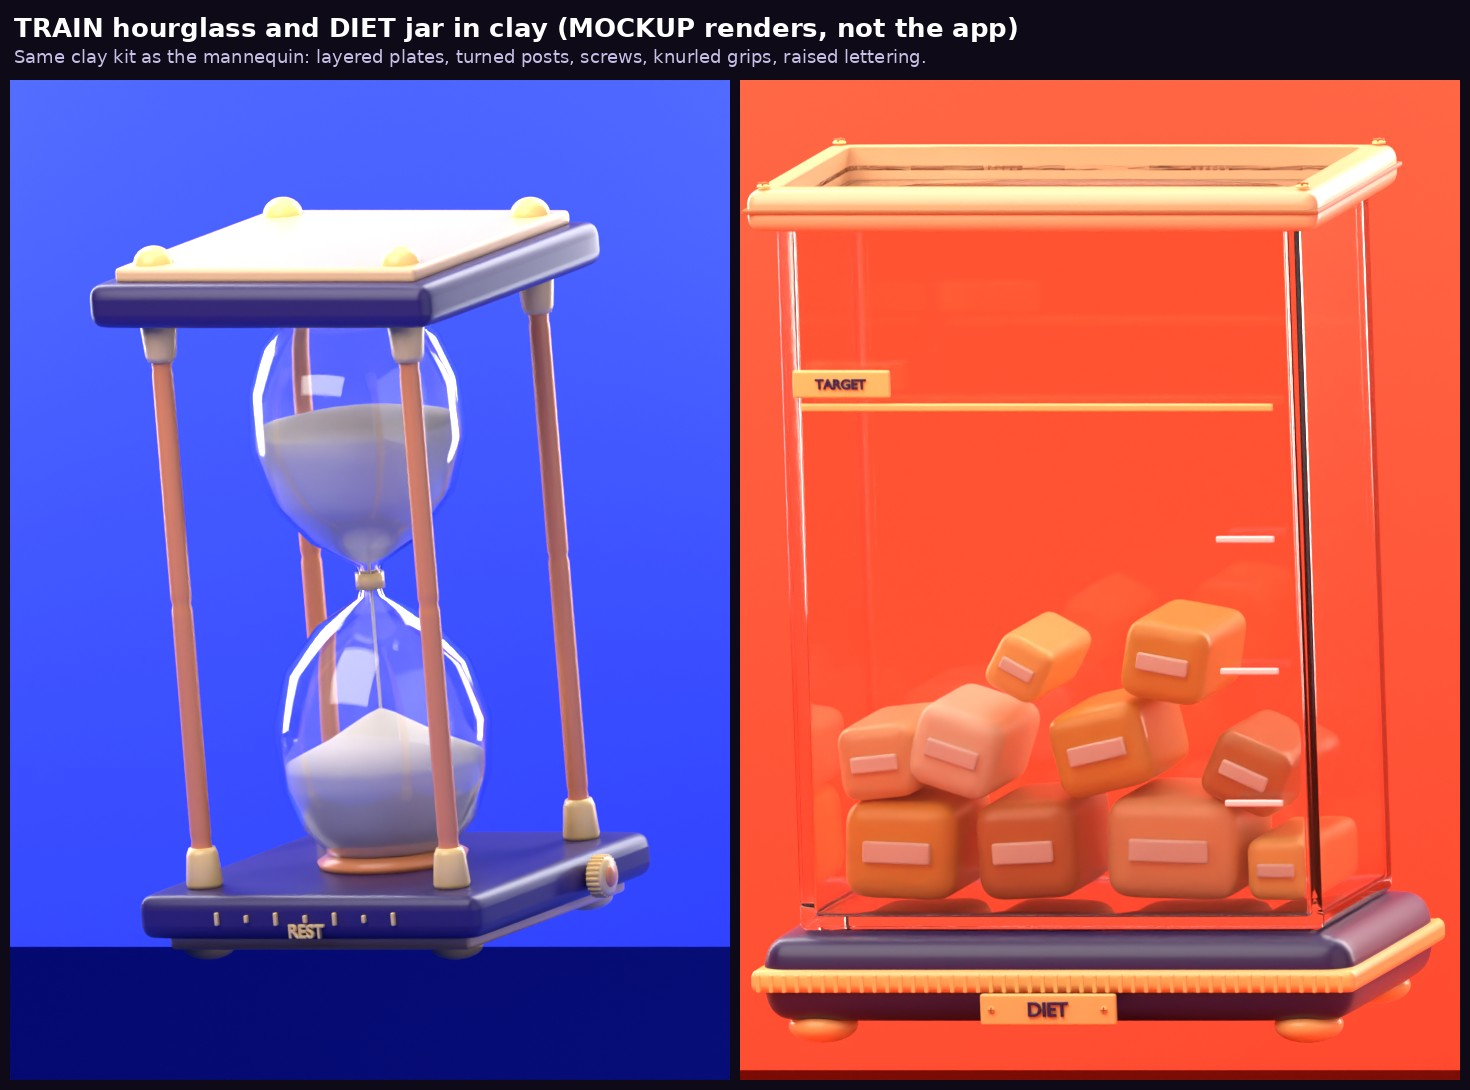
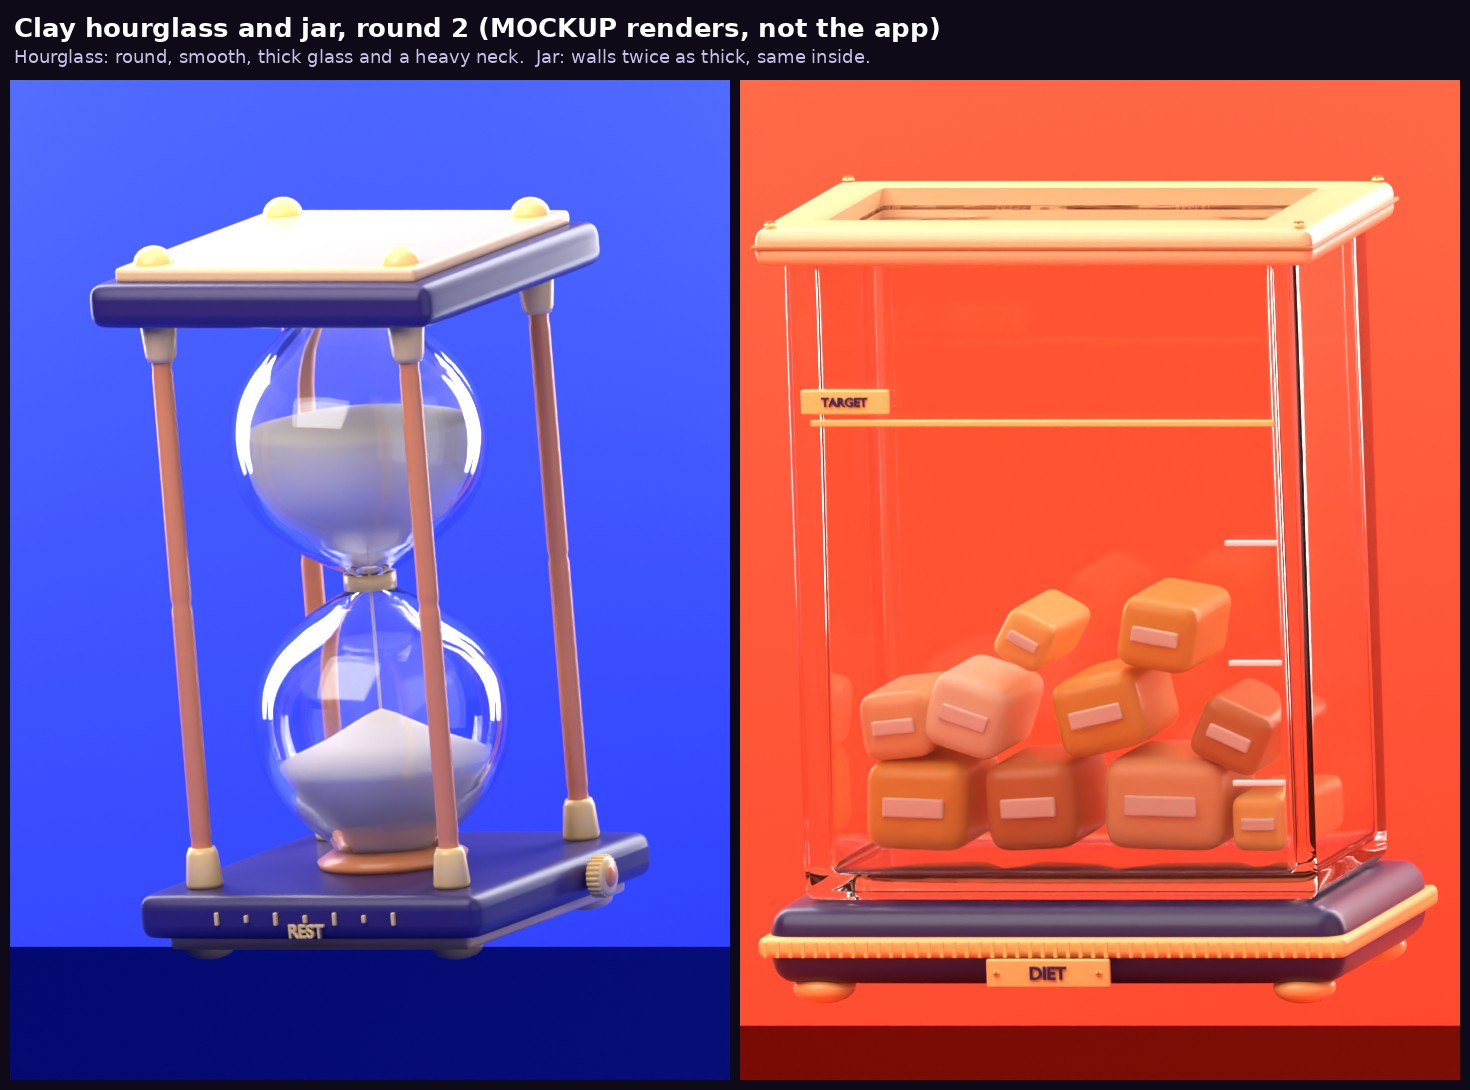
Clay mockups round 2: round, smooth, thick hourglass glass; thicker jar walls
Hourglass bulbs follow a dense Catmull-Rom profile lathed at 192 segments
with a wall offset along the surface normal, so the glass reads round and
heavy. Jar walls roughly double in thickness with the inside unchanged.

Claude-Session: https://claude.ai/code/session_01NG4XwYtpv2nozKg5AgmFJG

Changed region(s): [[0.4898, 0.1248, 1.0, 0.9982], [0.1531, 0.2807, 0.3673, 0.811], [0.0, 0.0, 0.7041, 0.0624]]

diff --git a/design/mockups/clay/objects.py b/design/mockups/clay/objects.py
@@ -234,35 +234,63 @@ if WHAT == 'hourglass':
                 sleeve = link(lathe('sleeve', [(0, 1e-4), (0, 0.026), (0.006, 0.028), (0.05, 0.024), (0.06, 0.02), (0.06, 1e-4)], 48), pivot, BUTTER)
                 sleeve.location = (px, py, z)
                 sleeve.rotation_euler = (0 if s > 0 else math.pi, 0, 0)
-    # Glass: two round bulbs from a thick wall, a neck ring.
-    knots = [(0, 0.04), (0.06, 0.07), (0.15, 0.27), (0.3, 0.44), (0.5, 0.52), (0.7, 0.5), (0.85, 0.42), (0.95, 0.3), (1.0, 0.2)]
-    k = 0.43 / 1.0
-    outer = [(z * k, r * k * 0.74) for z, r in knots]
+    # Glass (Wei, 14 Oct: smoother, rounder, thicker): two near-round bulbs on a
+    # dense Catmull-Rom profile, turned at 192 segments, with a thick wall
+    # offset along the surface normal and a heavy neck.
+    knots = [(0.0, 0.032), (0.012, 0.036), (0.03, 0.068), (0.06, 0.115), (0.1, 0.158), (0.15, 0.186),
+             (0.21, 0.195), (0.27, 0.186), (0.32, 0.162), (0.36, 0.128), (0.39, 0.096), (0.41, 0.08), (0.425, 0.076)]
+
+    def catmull(pts, n=16):
+        p = [pts[0]] + pts + [pts[-1]]
+        out = []
+        for i in range(1, len(p) - 2):
+            for j in range(n):
+                t = j / n
+                out.append(tuple(0.5 * (2 * p[i][c] + (-p[i - 1][c] + p[i + 1][c]) * t
+                                        + (2 * p[i - 1][c] - 5 * p[i][c] + 4 * p[i + 1][c] - p[i + 2][c]) * t * t
+                                        + (-p[i - 1][c] + 3 * p[i][c] - 3 * p[i + 1][c] + p[i + 2][c]) * t ** 3) for c in (0, 1)))
+        out.append(pts[-1])
+        return out
+    outer = catmull(knots)
+    GW = 0.022  # glass wall
+
+    def offset_in(prof):
+        res = []
+        for i, (z, r) in enumerate(prof):
+            z0, r0 = prof[max(i - 1, 0)]
+            z1, r1 = prof[min(i + 1, len(prof) - 1)]
+            tz, tr = z1 - z0, r1 - r0
+            L = math.hypot(tz, tr) or 1
+            nz, nr = -tr / L, tz / L      # outward normal in (z, r)
+            res.append((z - nz * GW, max(r - nr * GW, 0.007)))
+        return res
     prof = [(-z, r) for z, r in reversed(outer)] + outer[1:]
-    inner = [(z, max(r - 0.009, 0.006)) for z, r in prof]
-    glass = link(lathe('glass', prof + list(reversed(inner)), 96, loop=True), pivot, glass_mat('glass', 0xFFFFFF))
-    ring = link(lathe('neckRing', [(-0.012, 0.016), (-0.012, 0.022), (0.012, 0.022), (0.012, 0.016)], 48, loop=True), pivot, BUTTER)
+    inner = offset_in(prof)
+    glass = link(lathe('glass', prof + list(reversed(inner)), 192, loop=True), pivot, glass_mat('glass', 0xFFFFFF))
+    ring = link(lathe('neckRing', [(-0.012, 0.034), (-0.012, 0.04), (0.012, 0.04), (0.012, 0.034)], 64, loop=True), pivot, BUTTER)
+    inner_top = [(z, r) for z, r in inner if z >= 0]
     # Sand: pale clay, part drained. A mound up top, a heap below, a thin stream.
     SAND = clay('sand', 0xFFF2D6, rough=0.8, coat=0.0, bump=0.25)
 
     def r_at(z):
         z = abs(z)
-        for (z0, r0), (z1, r1) in zip(outer, outer[1:]):
+        pts = sorted(inner_top)
+        for (z0, r0), (z1, r1) in zip(pts, pts[1:]):
             if z0 <= z <= z1:
-                return (r0 + (r1 - r0) * (z - z0) / max(z1 - z0, 1e-6)) - 0.011
-        return 0.01
+                return (r0 + (r1 - r0) * (z - z0) / max(z1 - z0, 1e-6)) - 0.002
+        return 0.008
     top_level = 0.24
     top = [(0.03, 0.008)] + [(z, r_at(z)) for z in [0.03 + i * (top_level - 0.03) / 20 for i in range(1, 21)]]
     top.append((top_level + 0.012, r_at(top_level) * 0.6))
     top.append((top_level + 0.018, 1e-4))
-    link(lathe('sandTop', [(top[0][0], 1e-4)] + top, 64), pivot, SAND)
+    link(lathe('sandTop', [(top[0][0], 1e-4)] + top, 96), pivot, SAND)
     fill = -0.27
-    heap = [(-0.41, 1e-4)]
+    heap = [(-0.4, 1e-4)]
     for i in range(0, 15):
-        z = -0.41 + i * (fill + 0.41) / 14
+        z = -0.4 + i * (fill + 0.4) / 14
         heap.append((z, r_at(z)))
     heap += [(fill + 0.03, r_at(fill) * 0.55), (fill + 0.065, r_at(fill) * 0.15), (fill + 0.075, 1e-4)]
-    link(lathe('sandHeap', heap, 64), pivot, SAND)
+    link(lathe('sandHeap', heap, 96), pivot, SAND)
     link(lathe('stream', [(fill + 0.07, 1e-4), (fill + 0.07, 0.0025), (0.03, 0.0025), (0.03, 1e-4)], 16), pivot, SAND)
     # Base front: raised minute ticks and a knurled knob to set the rest.
     for i in range(7):
@@ -277,7 +305,7 @@ if WHAT == 'hourglass':
 elif WHAT == 'jar':
     backdrop = 0xE8461E
     pivot = empty('pivot', (0, 0, 0), root, rot=(math.radians(8), 0, math.radians(-14)))
-    W, D, H, wall = 0.27, 0.15, 0.36, 0.022
+    W, D, H, wall = 0.292, 0.172, 0.36, 0.045  # Wei: thicker glass; same inside
     base_top = 0.1
     # Glass tank: a rounded box, open at the top, with thick walls.
     bm = bmesh.new()
@@ -323,7 +351,7 @@ elif WHAT == 'jar':
     collar.location = (0, 0, base_top + 2 * H + 0.01)
     seam = link(block('collarSeam', W + 0.027, D + 0.027, 0.0025, bevel=0.002), pivot, RUST)
     seam.location = (0, 0, base_top + 2 * H + 0.01)
-    hole = link(block('mouth', W - 0.005, D - 0.005, 0.03, bevel=0.01), pivot, None)
+    hole = link(block('mouth', W - wall + 0.002, D - wall + 0.002, 0.03, bevel=0.01), pivot, None)
     bo = collar.modifiers.new('mouth', 'BOOLEAN')
     bo.operation, bo.object, bo.solver = 'DIFFERENCE', hole, 'EXACT'
     hole.location = collar.location
@@ -338,11 +366,11 @@ elif WHAT == 'jar':
     for q in range(1, 4):
         z = base_top + 2 * H * 0.74 * q / 4
         t = link(block('grad', 0.03, 0.003, 0.0035, bevel=0.002, sub=1), pivot, PALE)
-        t.location = (W - 0.06, -D - wall - 0.002, z)
+        t.location = (W - 0.06, -D - 0.003, z)
     bar = link(block('targetBar', W * 0.9, 0.003, 0.004, bevel=0.002, sub=1), pivot, BUTTER)
-    bar.location = (0, -D - wall - 0.002, target_z)
+    bar.location = (0, -D - 0.003, target_z)
     flag = link(block('flag', 0.05, 0.004, 0.014, bevel=0.004), pivot, BUTTER)
-    flag.location = (-W + 0.07, -D - wall - 0.004, target_z + 0.024)
+    flag.location = (-W + 0.07, -D - 0.006, target_z + 0.024)
     raised_text('targetText', 'TARGET', 0.014, flag, INDIGO, (0, -0.005, 0), rot=(math.pi / 2, 0, 0), depth=0.0012)
     # Food blocks: chunky clay by main macro, tumbled at angles on a pile.
     macro = {'carb': clay('carb', 0xE9B44C), 'protein': clay('protein', 0xC9874A), 'fat': clay('fat', 0xF6E7C8),
@@ -360,7 +388,7 @@ elif WHAT == 'jar':
         # A raised label strip on each block's front: the tactile bit.
         lab = link(block('label', w * 0.6, 0.004, h * 0.22, bevel=0.003, sub=1), b, PALE)
         lab.location = (0, -0.092, 0)
-    cam_center, ortho = 0.43, 1.0
+    cam_center, ortho = 0.43, 1.1
 
 # ---------------------------------------------------------------------------
 plate = bpy.data.materials.new('plate')
